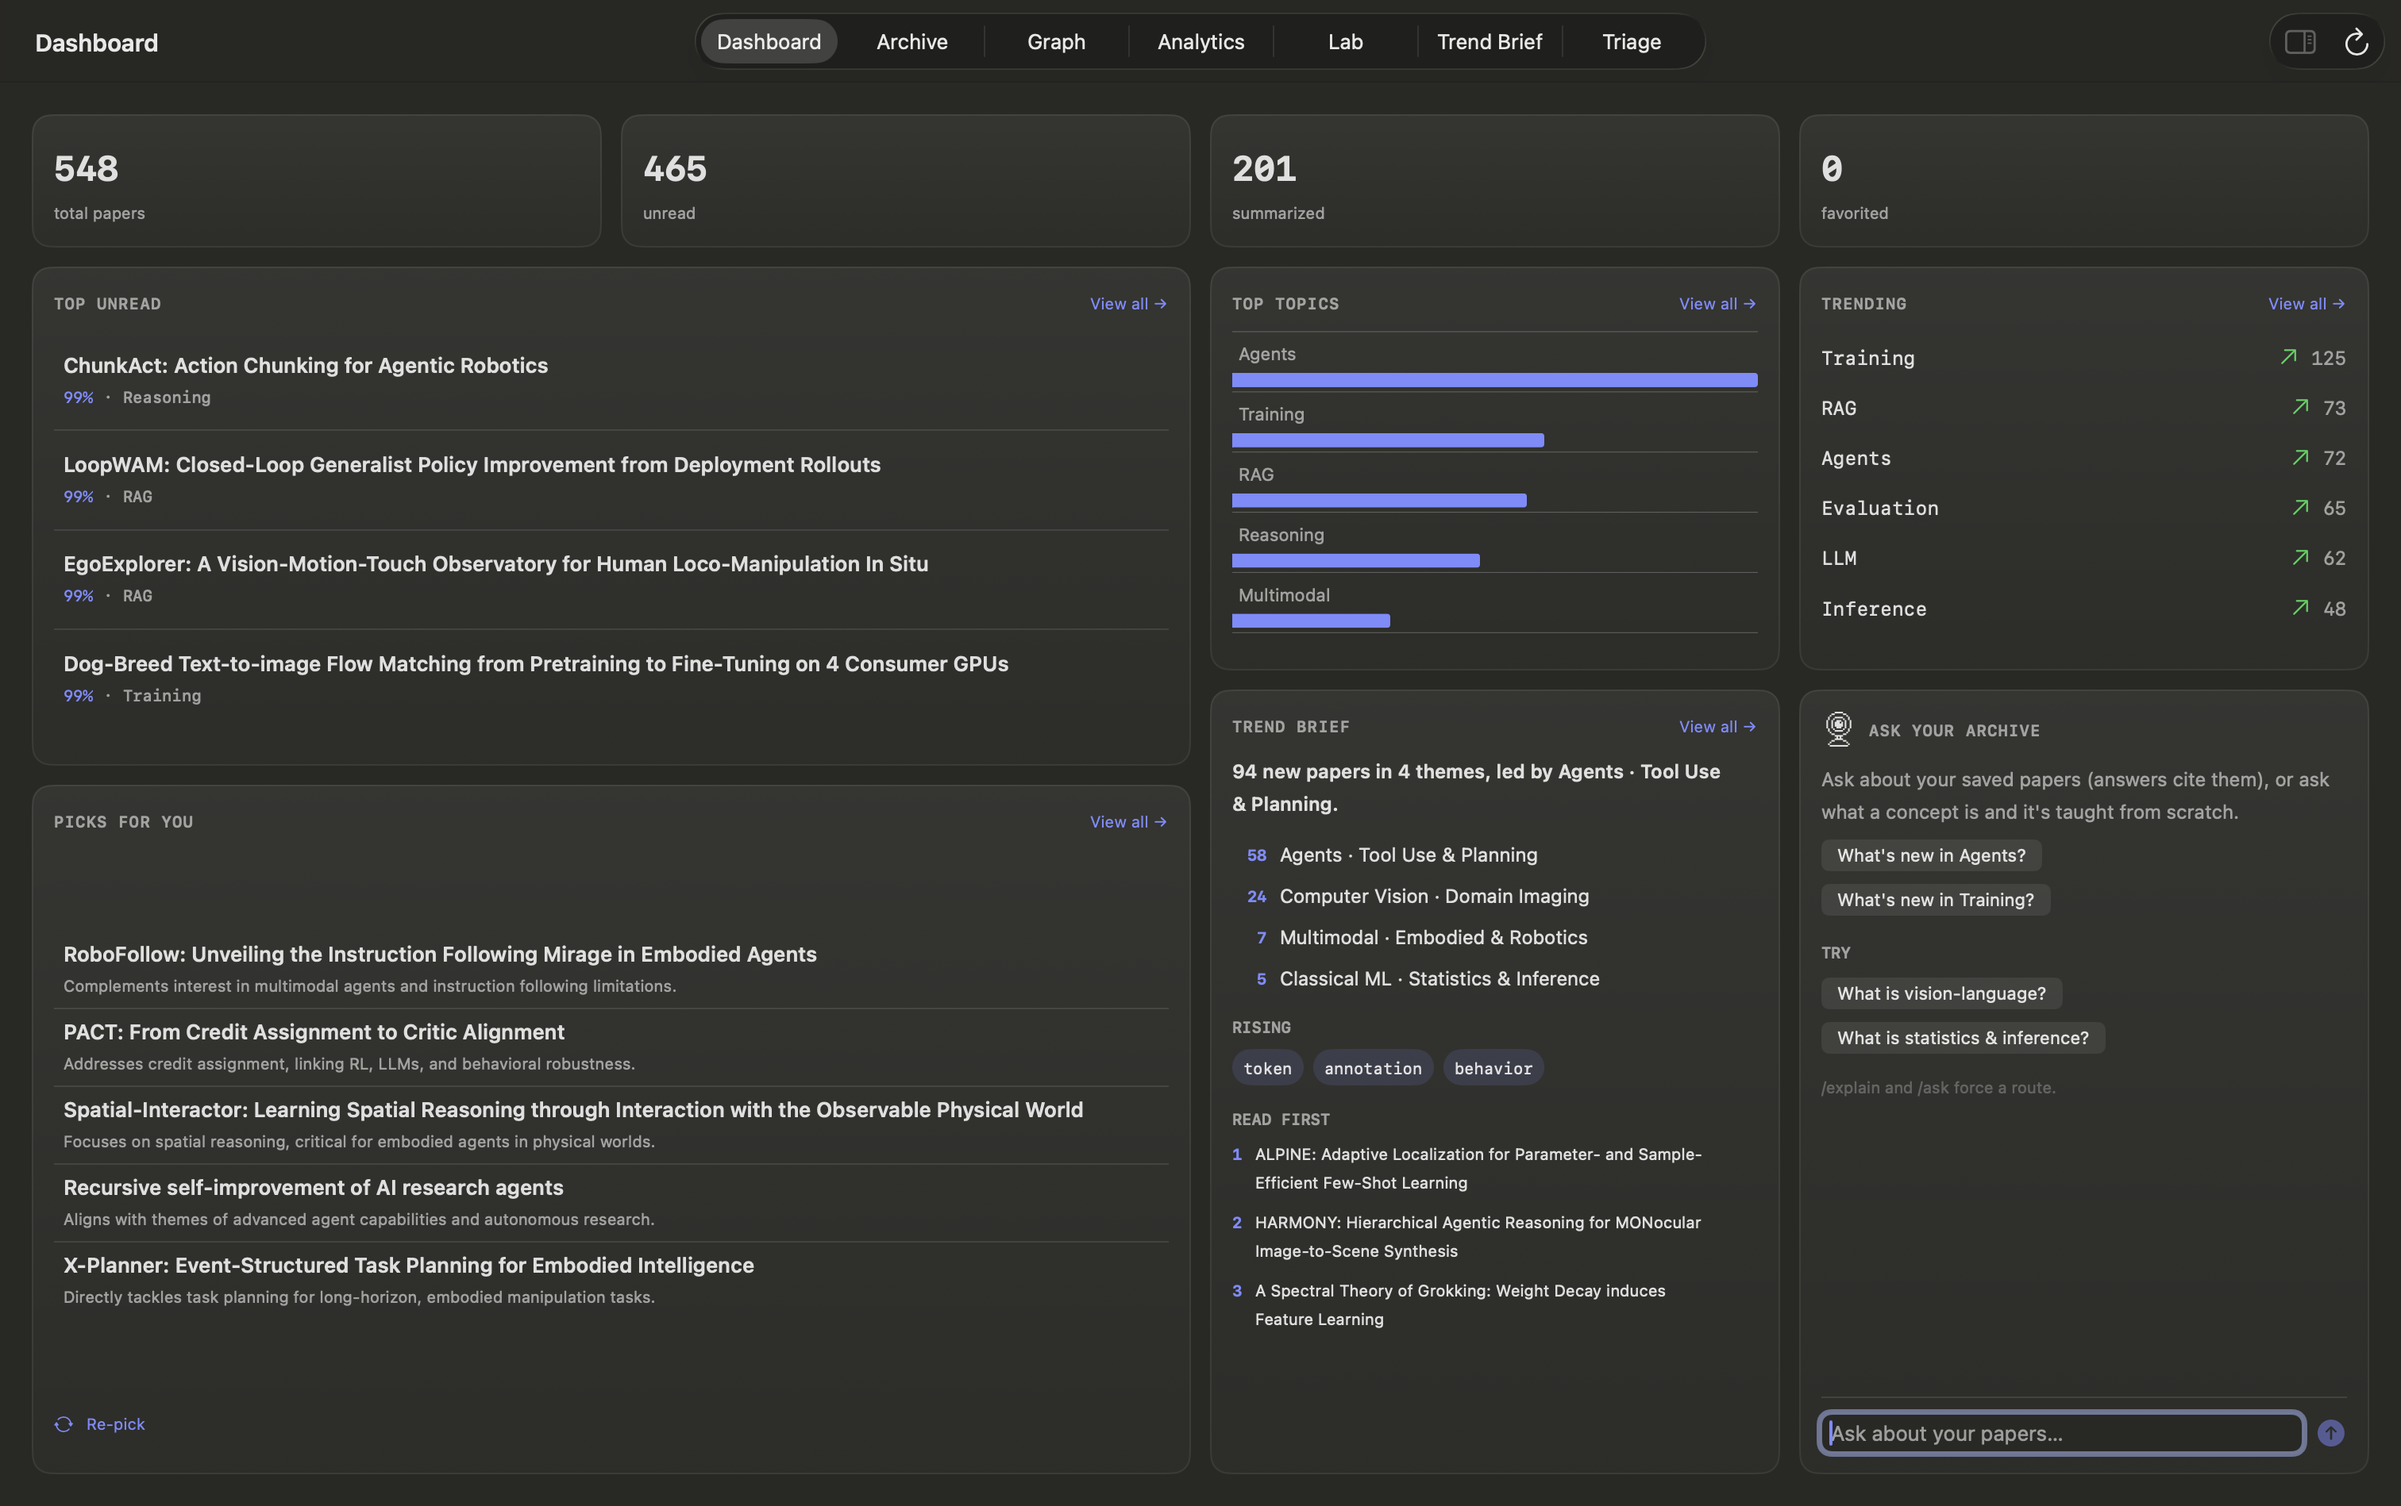
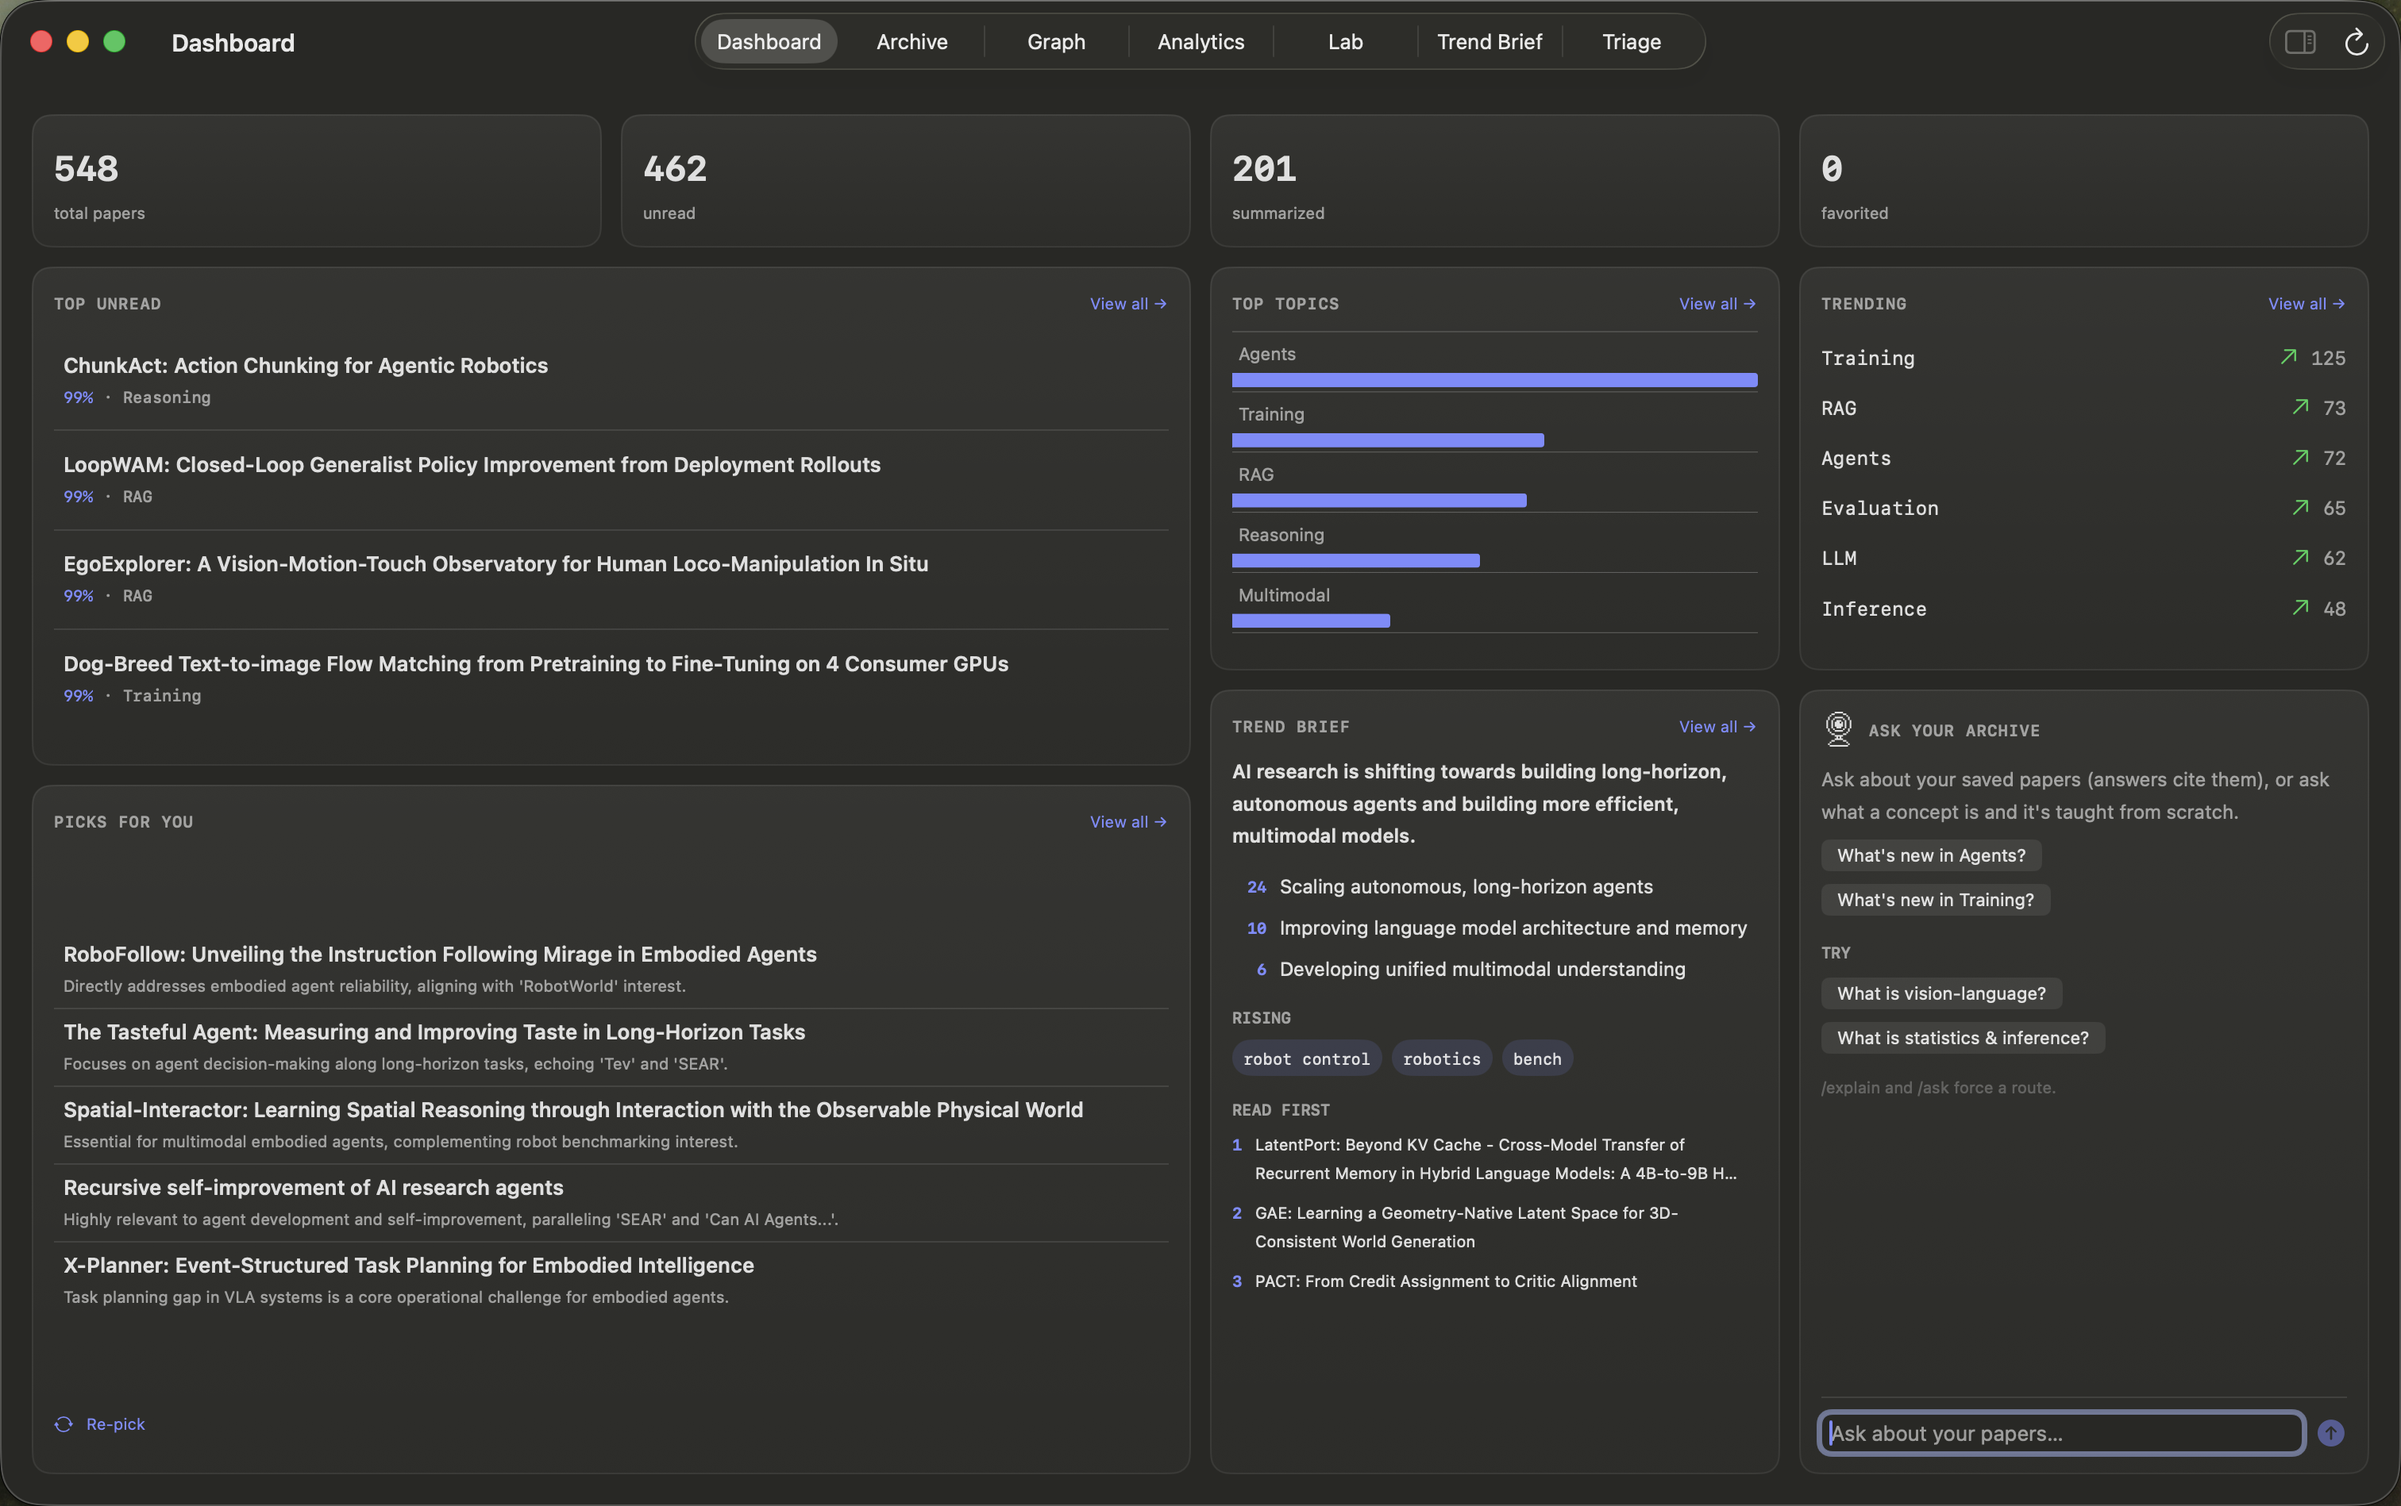
fix: give duplicate weekly themes distinct labels
Two clusters could land on the same topic ('Training', 'Training').
Later duplicates now get their most distinctive keyword as a subtitle
('Training · parameter'), or a number if none. Regression test added.
Fresh dashboard screenshot with the generated trend narrative.

diff --git a/AIPapers/Services/DigestService.swift b/AIPapers/Services/DigestService.swift
@@ -99,7 +99,7 @@ enum DigestService {
         }
 
         return Digest(
-            themes: themes,
+            themes: disambiguated(themes),
             risingTerms: risingTerms(recent: recent, older: older, docTerms: docTerms),
             wildcards: wildcards(recent: recent, vectors: vectors),
             readingPlan: readingPlan(themes: themes, recent: recent),
@@ -108,6 +108,22 @@ enum DigestService {
             paperCount: recent.count,
             signature: signature(of: recent.map(\.id))
         )
+    }
+
+    /// Two clusters can land on the same topic/subtopic ("Training", "Training").
+    /// Later duplicates get their most distinctive keyword as the subtitle
+    /// ("Training · large scale"), falling back to a number if there is none.
+    static func disambiguated(_ themes: [DigestTheme]) -> [DigestTheme] {
+        var seen = Set<String>()
+        return themes.map { theme in
+            guard seen.contains(theme.label) else { seen.insert(theme.label); return theme }
+            let extra = theme.keywords.first { !seen.contains("\(theme.label) · \($0)") }
+            let subtitle = [theme.subtopic, extra ?? "\(theme.id + 1)"].compactMap { $0 }.joined(separator: " · ")
+            let renamed = DigestTheme(id: theme.id, topic: theme.topic, subtopic: subtitle,
+                                      keywords: theme.keywords, papers: theme.papers, priorCount: theme.priorCount)
+            seen.insert(renamed.label)
+            return renamed
+        }
     }
 
     // MARK: Clustering

diff --git a/AIPapersTests/SmallServicesTests.swift b/AIPapersTests/SmallServicesTests.swift
@@ -166,3 +166,20 @@ final class AnswerRenderingTests: XCTestCase {
         XCTAssertTrue(rendered.runs.contains { $0.inlinePresentationIntent?.contains(.stronglyEmphasized) == true })
     }
 }
+
+final class DigestLabelTests: XCTestCase {
+    private func theme(_ id: Int, _ topic: String, _ sub: String?, _ keywords: [String]) -> DigestTheme {
+        DigestTheme(id: id, topic: topic, subtopic: sub, keywords: keywords, papers: [], priorCount: nil)
+    }
+
+    func testDuplicateLabelsGetDistinctSubtitles() {
+        let labels = DigestService.disambiguated([
+            theme(0, "Agents", nil, ["long horizon"]),
+            theme(1, "Training", nil, ["large scale"]),
+            theme(2, "Training", nil, ["parameter"]),
+            theme(3, "Training", nil, []),
+        ]).map(\.label)
+        XCTAssertEqual(labels, ["Agents", "Training", "Training · parameter", "Training · 4"])
+        XCTAssertEqual(Set(labels).count, labels.count)
+    }
+}
